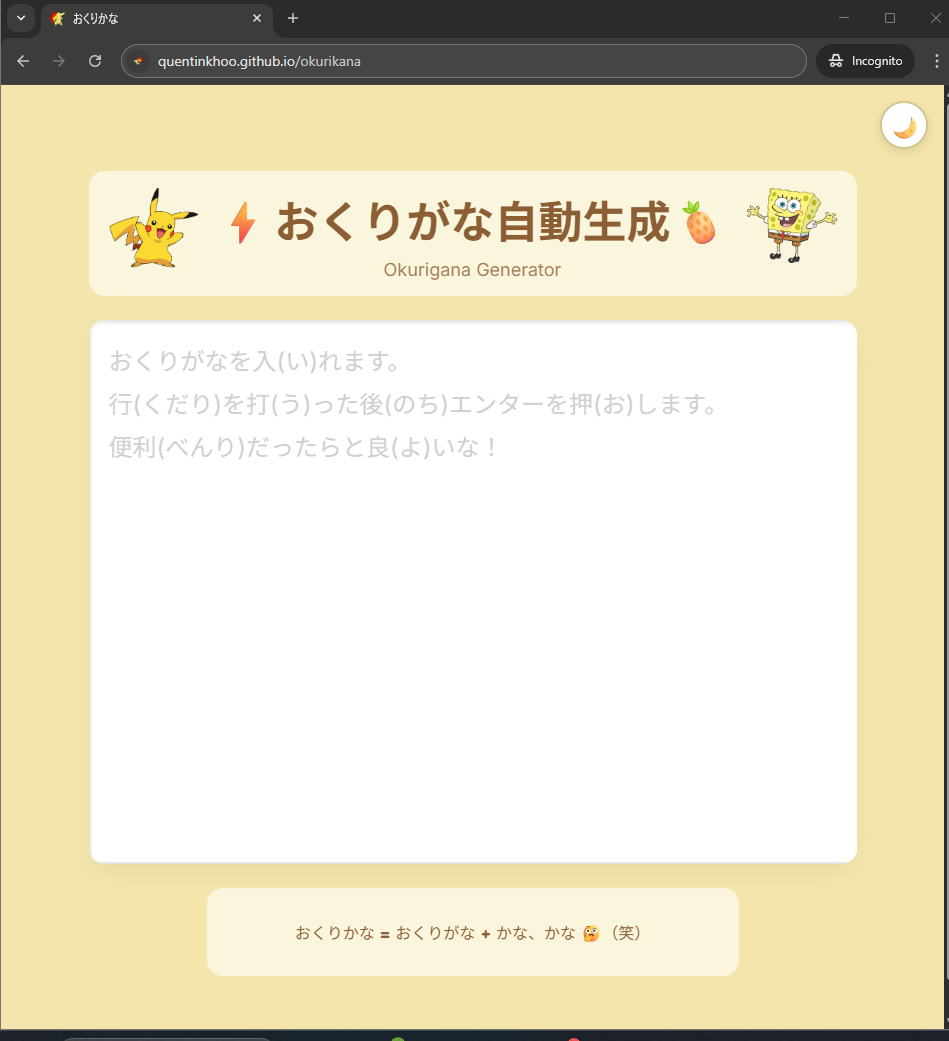
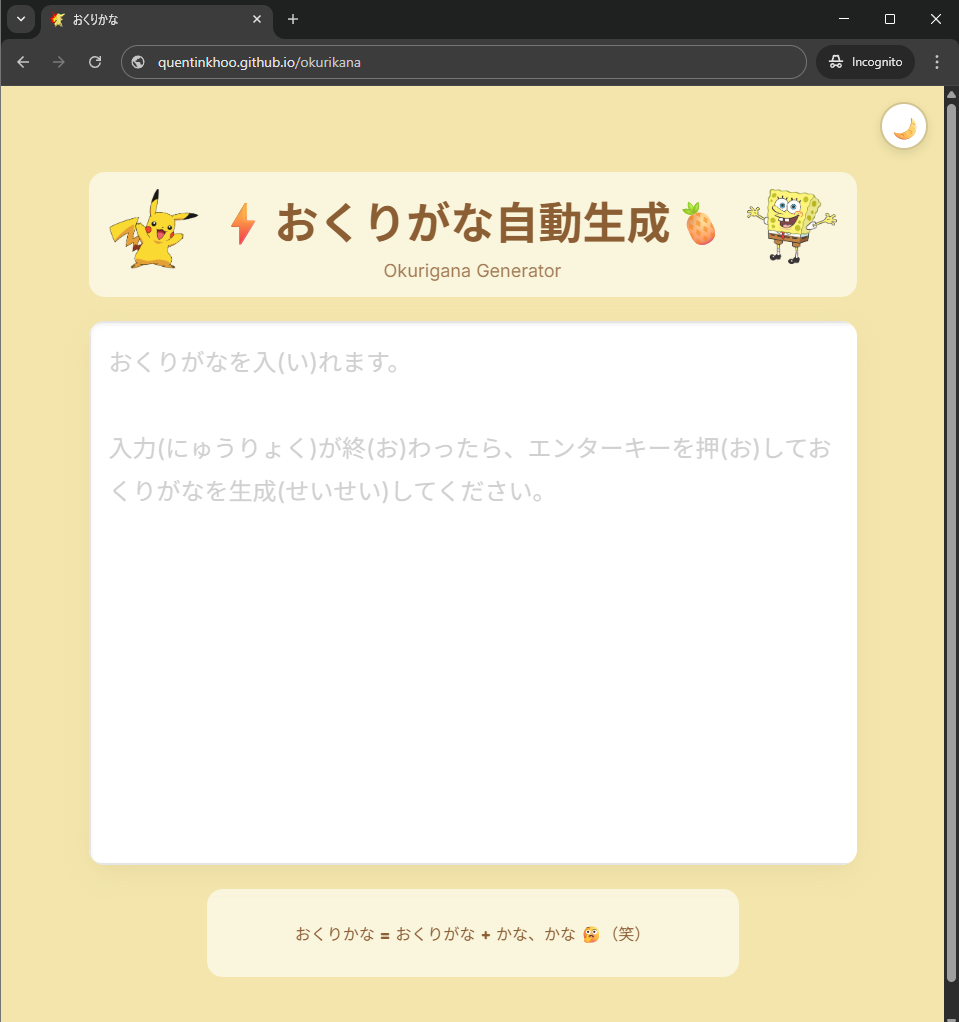
regenerate screenshot

diff --git a/index.html b/index.html
@@ -29,8 +29,8 @@
                 </div>
                 <div id="editor-area" contenteditable="false"></div><div id="placeholder">
                     おくりがなを入(い)れます。<br>
-                    行(くだり)を打(う)った後(のち)エンターを押(お)します。<br>
-                    便利(べんり)だったらと良(よ)いな！<br>
+                    <br>
+                    入力(にゅうりょく)が終(お)わったら、エンターキーを押(お)しておくりがなを生成(せいせい)してください。<br>
                 </div>
             </div>
         </main>
